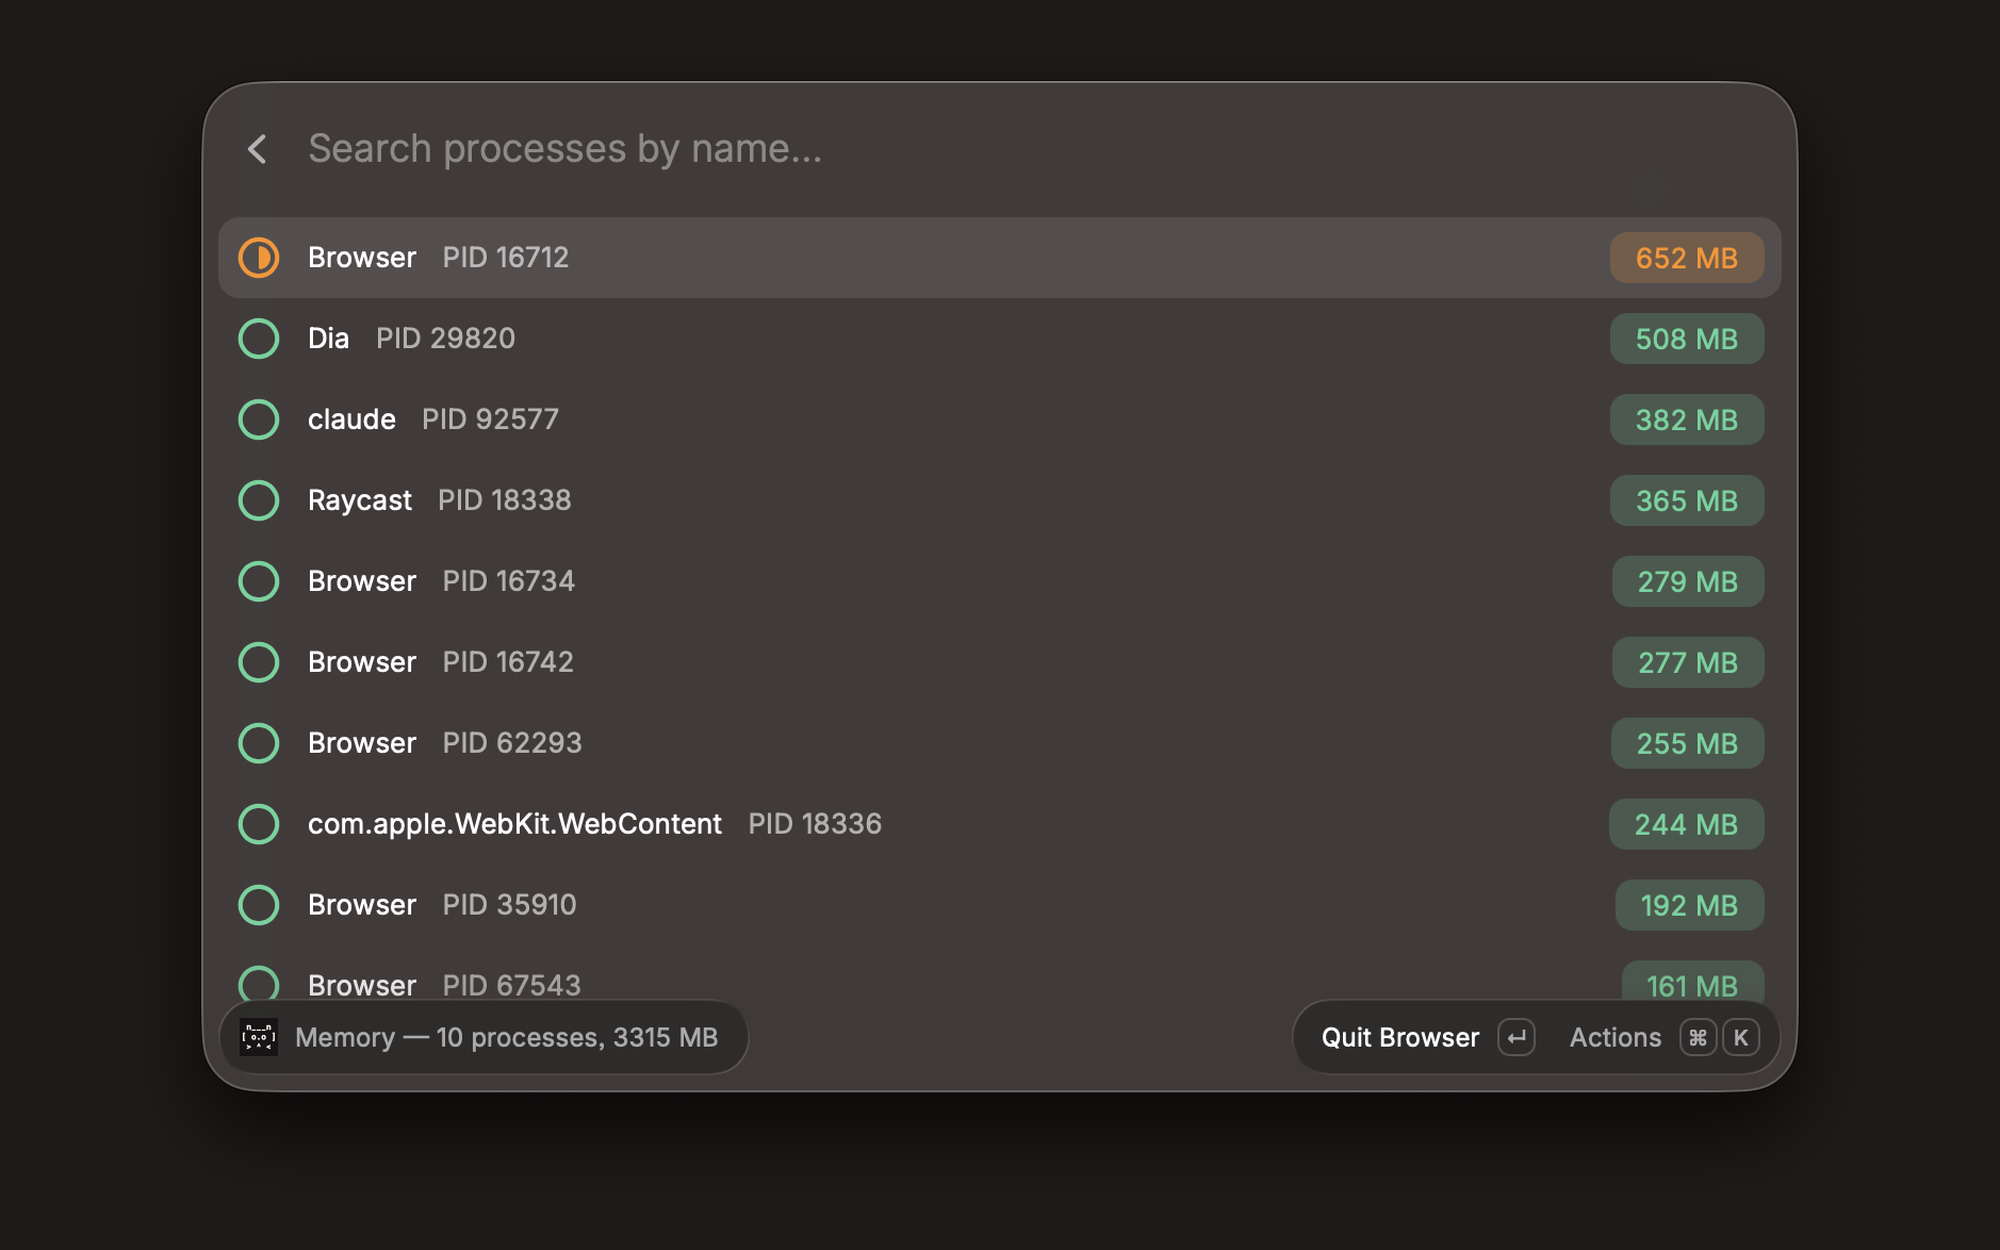
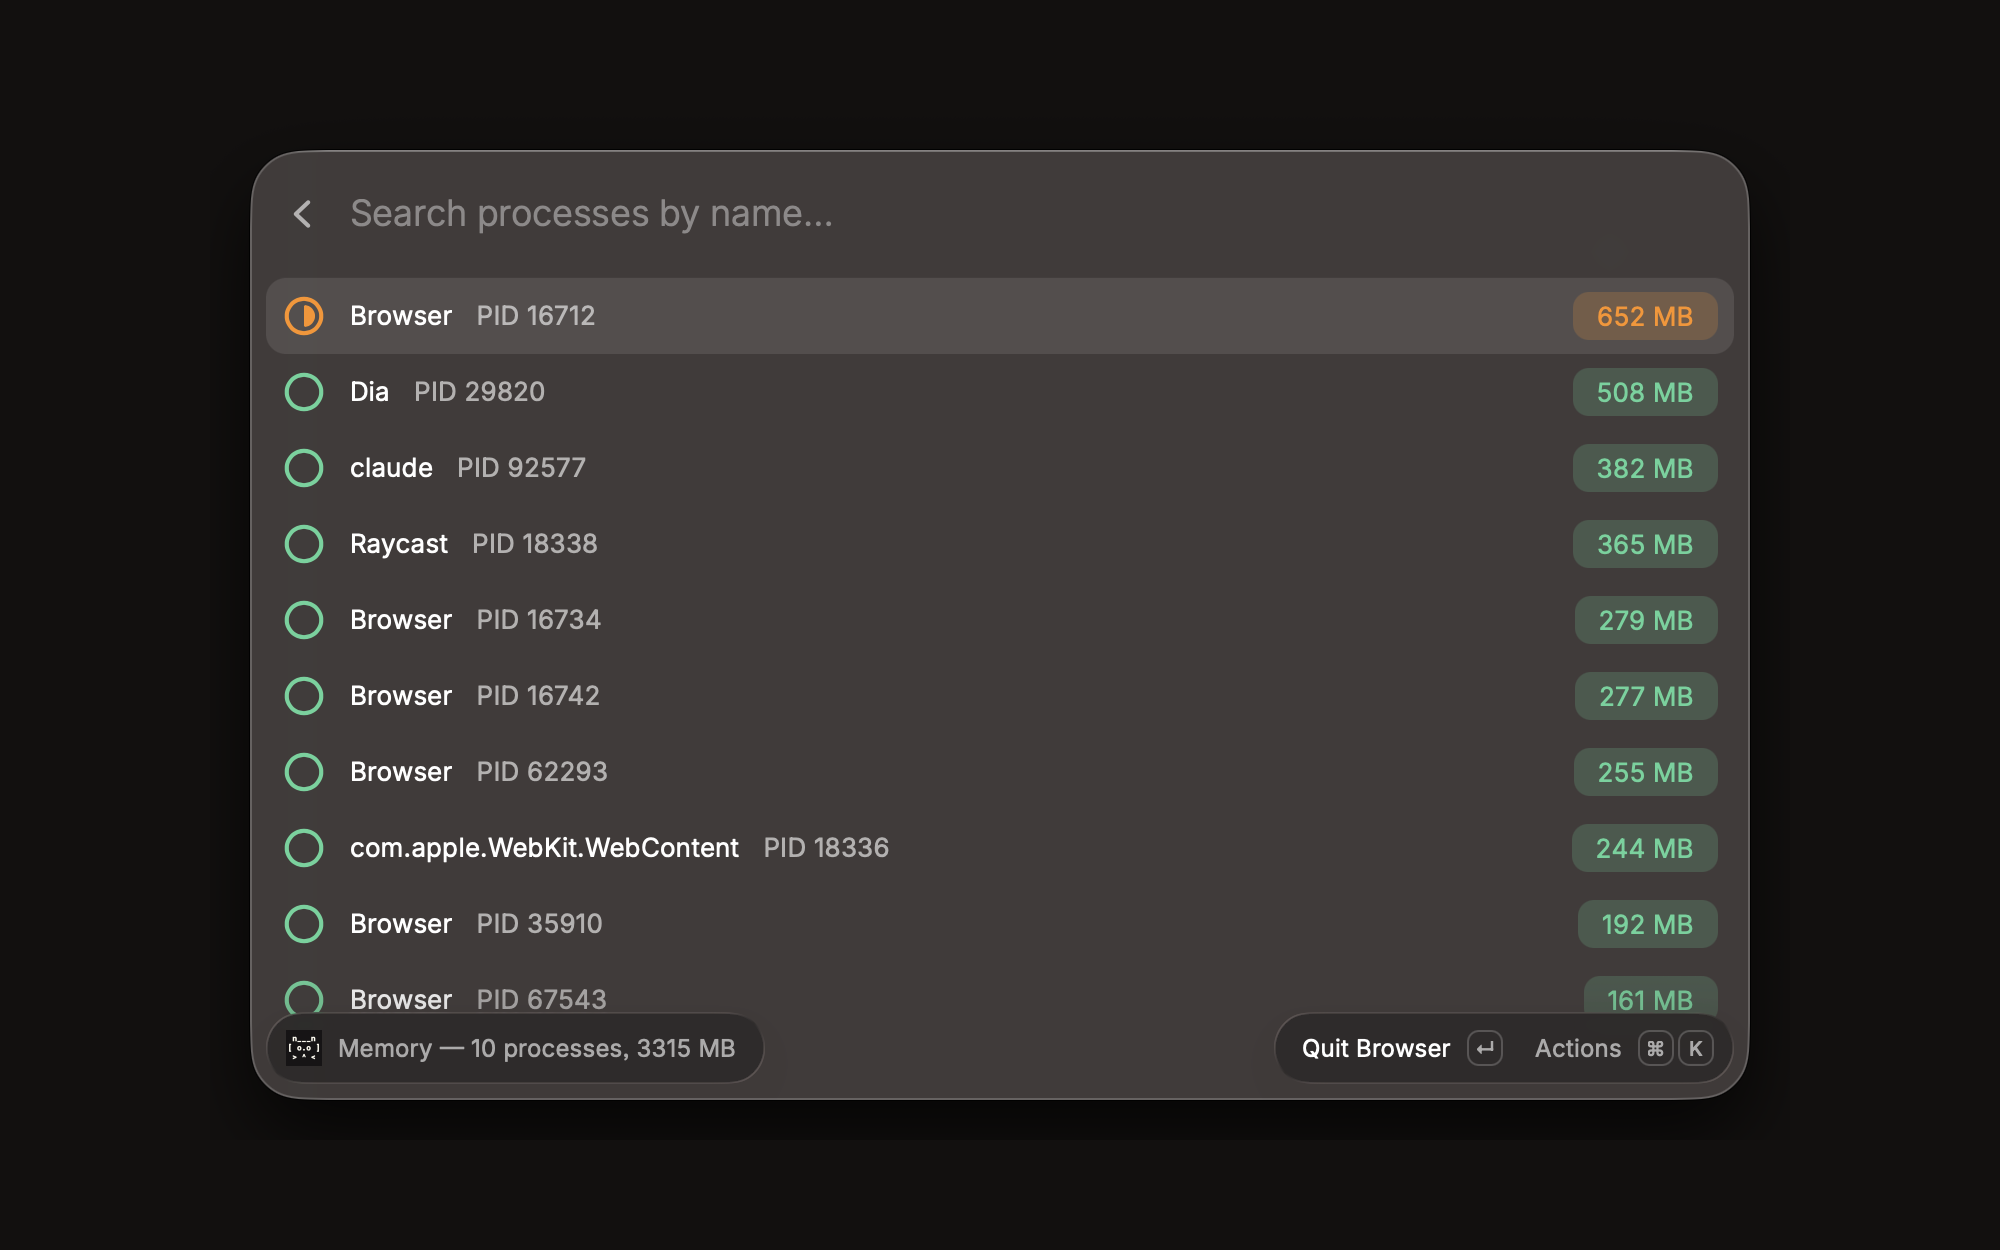
fix: the store review, answered
raycast/extensions#30701 came back with two failing checks and four review
findings. All six are addressed here.

Prettier: the monorepo has no .editorconfig, so CI reformatted every file to
two spaces and failed. The tab style now travels with the extension in
.prettierrc, and `prettier --no-editorconfig --check` passes.

Screenshots: five of six failed the padding check. The window sat at 6.5%
from the top, outside the 8–17% band the validator scans for a frame, so it
fell back to guessing edges from text. Recomposed from the original window
captures at 75% width, centred: 12.0% top and bottom, 12.5% left and right,
and Raycast's own check_raycast_images.py passes all six.

Login items: a name with an apostrophe ended the shell quote early. The
AppleScript is now built with appleScriptQuote and the whole script passed
through shellQuote, with a test for the apostrophe.

Upgrade: it started `rcc upgrade` the moment the screen opened. It now opens
in --dry-run like `apps`, through one shared DryRunFirst screen, and the real
run is a separate confirmed action. A dry run is its own row state.

Preferences: both getPreferenceValues calls use the generated Preferences
type, and tsconfig includes raycast-env.d.ts so tsc sees it.

Trash: kept as Finder. Raycast's trash() moves a path into the Trash and has
no way to empty it; the docstring now says so for the next reviewer.

Claude-Session: https://claude.ai/code/session_01PmiCH2RCfj8dKUhBo1LyWG

Changed region(s): [[0.093, 0.0624, 0.899, 0.9048]]

diff --git a/raycast-extension/src/apps.tsx b/raycast-extension/src/apps.tsx
@@ -1,56 +1,26 @@
-import { Action, Alert, Color, Icon, confirmAlert } from "@raycast/api";
-import { useState } from "react";
-import { ProgressList } from "./progress-list";
+import { Icon } from "@raycast/api";
+import { DryRunFirst } from "./dry-run-first";
 
 /**
  * `rcc apps` — the GUI applications, updated through four channels: Homebrew
  * casks, the App Store via `mas`, a catalog of apps that update themselves,
- * and Sparkle feeds.
- *
- * It opens in `--dry-run`, and that is the design decision worth stating.
- * Unlike every other screen here, this command *changes the machine*: it
- * downloads and installs new versions of applications the reader is very
- * possibly using at that moment. A screen that starts by doing that, because
- * someone pressed Enter on a row in a launcher, has taken a decision away from
- * them.
- *
- * So the first run answers "what would change", which is the question you have
- * before deciding — and updating for real is a separate, confirmed action.
+ * and Sparkle feeds. Opens in `--dry-run`; DryRunFirst says why.
  */
 export default function Command() {
-	const [live, setLive] = useState(false);
-
-	const updateForReal = async () => {
-		const confirmed = await confirmAlert({
-			title: "Update every app that has a new version?",
-			message:
-				"Raccoon will download and install updates through Homebrew, the " +
-				"App Store and Sparkle. Applications that are open may be replaced " +
-				"or asked to restart.",
-			primaryAction: {
-				title: "Update Apps",
-				style: Alert.ActionStyle.Destructive,
-			},
-		});
-		if (!confirmed) return;
-		setLive(true);
-	};
-
 	return (
-		<ProgressList
-			args={live ? ["apps"] : ["apps", "--dry-run"]}
-			title={live ? "Updating Apps" : "Apps — what would change"}
+		<DryRunFirst
+			command="apps"
+			subject="Apps"
 			unit="update channels"
 			idleIcon={Icon.AppWindowGrid3x3}
-			extraActions={
-				live ? null : (
-					<Action
-						title="Update Apps for Real"
-						icon={{ source: Icon.Download, tintColor: Color.Red }}
-						onAction={updateForReal}
-					/>
-				)
-			}
+			confirm={{
+				title: "Update every app that has a new version?",
+				message:
+					"Raccoon will download and install updates through Homebrew, the " +
+					"App Store and Sparkle. Applications that are open may be replaced " +
+					"or asked to restart.",
+				action: "Update Apps",
+			}}
 		/>
 	);
 }

diff --git a/raycast-extension/src/dry-run-first.tsx b/raycast-extension/src/dry-run-first.tsx
@@ -1,0 +1,69 @@
+import { Action, Alert, Color, Icon, confirmAlert } from "@raycast/api";
+import { useState } from "react";
+import { ProgressList } from "./progress-list";
+
+/**
+ * The screen for an rcc command that changes the machine.
+ *
+ * `apps` and `upgrade` are the two: one replaces applications the reader may
+ * be using at that moment, the other rewrites what every package manager has
+ * installed. A screen that starts by doing that, because someone pressed Enter
+ * on a row in a launcher, has taken a decision away from them.
+ *
+ * So the first run is `--dry-run` and answers "what would change", which is
+ * the question you have before deciding — and doing it for real is a separate,
+ * confirmed action. It is the one rule every screen here keeps: opening a
+ * screen does not act.
+ */
+export function DryRunFirst({
+	command,
+	subject,
+	unit,
+	idleIcon,
+	confirm,
+}: {
+	/** The rcc subcommand, e.g. "apps". */
+	command: string;
+	/** What the screen is about, for its titles: "Apps", "Packages". */
+	subject: string;
+	/** What the rows are, for the search placeholder. */
+	unit: string;
+	idleIcon: Icon;
+	/** The confirmation shown before the real run. */
+	confirm: { title: string; message: string; action: string };
+}) {
+	const [live, setLive] = useState(false);
+
+	const runForReal = async () => {
+		const confirmed = await confirmAlert({
+			title: confirm.title,
+			message: confirm.message,
+			primaryAction: {
+				title: confirm.action,
+				style: Alert.ActionStyle.Destructive,
+			},
+		});
+		if (!confirmed) return;
+		setLive(true);
+	};
+
+	return (
+		<ProgressList
+			args={live ? [command] : [command, "--dry-run"]}
+			title={
+				live ? `Updating ${subject}` : `${subject} — what would change`
+			}
+			unit={unit}
+			idleIcon={idleIcon}
+			extraActions={
+				live ? null : (
+					<Action
+						title={`${confirm.action} for Real`}
+						icon={{ source: Icon.Download, tintColor: Color.Red }}
+						onAction={runForReal}
+					/>
+				)
+			}
+		/>
+	);
+}

diff --git a/raycast-extension/src/fixes.ts b/raycast-extension/src/fixes.ts
@@ -1,4 +1,4 @@
-import { shellQuote } from "./terminal.ts";
+import { appleScriptQuote, shellQuote } from "./terminal.ts";
 
 /**
  * The shell command behind Enter and Cmd+Enter, one builder per command that
@@ -23,7 +23,14 @@ export function killPids(pids: number[]): string {
 	return `kill ${valid.join(" ")}`;
 }
 
-/** Empty the Trash through Finder, so it behaves like emptying it by hand. */
+/**
+ * Empty the Trash through Finder, so it behaves like emptying it by hand.
+ *
+ * Not Raycast's `trash()`: that API moves a path *into* the Trash and has no
+ * counterpart for emptying it. Finder is the one thing on the system that
+ * empties every volume's Trash at once and honours the reader's own settings
+ * for it.
+ */
 export function emptyTrash(): string {
 	return `osascript -e 'tell application "Finder" to empty trash'`;
 }
@@ -63,10 +70,13 @@ export function forgetNetworks(iface: string, ssids: string[]): string {
 /** Remove an item from Login Items, the same list System Settings shows. */
 export function removeLoginItems(names: string[]): string {
 	if (names.length === 0) throw new Error("No login item to remove.");
+	// Quoted twice on purpose: once as an AppleScript string, then the whole
+	// script as one shell argument. A name with an apostrophe in it used to end
+	// the shell quote early and run whatever followed it.
 	return names
 		.map(
 			(n) =>
-				`osascript -e 'tell application "System Events" to delete login item ${JSON.stringify(n)}'`,
+				`osascript -e ${q(`tell application "System Events" to delete login item ${appleScriptQuote(n)}`)}`,
 		)
 		.join("; ");
 }

diff --git a/raycast-extension/src/upgrade.tsx b/raycast-extension/src/upgrade.tsx
@@ -1,20 +1,27 @@
 import { Icon } from "@raycast/api";
-import { ProgressList } from "./progress-list";
+import { DryRunFirst } from "./dry-run-first";
 
 /**
- * `rcc upgrade` — brew, pip, npm, pnpm, bun, uv, go, cargo, one after another.
- *
- * Nothing here but the shape: the screen is ProgressList, because `apps` is the
- * same command in a different domain and one of them having a better view than
- * the other would be an accident, not a decision.
+ * `rcc upgrade` — brew, pip, npm, pnpm, bun, uv, go, nvm, rustup, gem, docker,
+ * claude, one after another. Opens in `--dry-run`, like `apps`: it is the
+ * other command here that rewrites what is installed, and it used to start the
+ * moment the screen opened.
  */
 export default function Command() {
 	return (
-		<ProgressList
-			args={["upgrade"]}
-			title="Upgrade"
+		<DryRunFirst
+			command="upgrade"
+			subject="Packages"
 			unit="package managers"
 			idleIcon={Icon.Download}
+			confirm={{
+				title: "Upgrade the packages of every manager on this Mac?",
+				message:
+					"Raccoon will run the brew, pip, npm, pnpm, bun, uv, go, nvm, " +
+					"rustup, gem and Docker upgrades in turn. Tools you are using may " +
+					"change version under you, and some managers ask for Touch ID.",
+				action: "Upgrade Packages",
+			}}
 		/>
 	);
 }

diff --git a/raycast-extension/src/fixes.test.ts b/raycast-extension/src/fixes.test.ts
@@ -48,6 +48,16 @@ test("a login item name is passed as a quoted AppleScript string", () => {
 	assert.match(removeLoginItems(['He said "hi"']), /\\"hi\\"/);
 });
 
+test("a login item name with an apostrophe cannot break out of the shell quote", () => {
+	const cmd = removeLoginItems(["Alex's Helper"]);
+	// The whole AppleScript is one single-quoted shell argument, and the
+	// apostrophe inside it is the '\'' dance, never a bare quote.
+	assert.equal(
+		cmd,
+		`osascript -e 'tell application "System Events" to delete login item "Alex'\\''s Helper"'`,
+	);
+});
+
 test("certificate deletion is scoped to the login keychain", () => {
 	const cmd = deleteCertificates(["Adobe Content Certificate 10-6"]);
 	assert.ok(cmd.includes("login.keychain-db"));

diff --git a/raycast-extension/src/upgrade-progress.ts b/raycast-extension/src/upgrade-progress.ts
@@ -19,7 +19,7 @@ const PROGRESS = /^__RCC_PROGRESS__:(\d+):(\d+):(.*)$/;
 const STEP = /^([a-z][a-z0-9+-]*):\s*(.*)$/i;
 
 export type ManagerState =
-	"checking" | "updating" | "done" | "absent" | "unknown";
+	"checking" | "updating" | "previewed" | "done" | "absent" | "unknown";
 
 export type Manager = {
 	name: string;
@@ -38,6 +38,8 @@ function stateOf(detail: string): ManagerState {
 	}
 	if (text.includes("up to date") || text.includes("up-to-date"))
 		return "done";
+	// `--dry-run` reports what a manager would do and stops there.
+	if (text.includes("dry run")) return "previewed";
 	if (text.includes("updating") || text.includes("upgrading")) {
 		return "updating";
 	}

diff --git a/raycast-extension/src/upgrade-progress.test.ts b/raycast-extension/src/upgrade-progress.test.ts
@@ -57,3 +57,14 @@ test("the plain output between markers belongs to the manager running then", () 
 test("output with no markers yields no rows rather than one empty one", () => {
 	assert.deepEqual(managersFrom("just some text\nand more"), []);
 });
+
+test("a dry run leaves a manager previewed, neither working nor done", () => {
+	const run = [
+		"__RCC_PROGRESS__:0:30:brew: checking...",
+		"__RCC_PROGRESS__:1:30:brew: dry run",
+		"==> Would upgrade 3 outdated packages",
+	].join("\n");
+	const [brew] = managersFrom(run);
+	assert.equal(brew.state, "previewed");
+	assert.match(brew.log, /Would upgrade/);
+});

diff --git a/raycast-extension/src/progress-list.tsx b/raycast-extension/src/progress-list.tsx
@@ -44,6 +44,7 @@ const LOOK: Record<ManagerState, { icon: Icon; tint: Color; label: string }> = {
 		tint: Color.Blue,
 		label: "Checking",
 	},
+	previewed: { icon: Icon.Eye, tint: Color.SecondaryText, label: "Dry run" },
 	done: { icon: Icon.CheckCircle, tint: Color.Green, label: "Up to date" },
 	// Neither a failure nor a warning: something you have not installed is not
 	// a problem to solve, so it must not be dressed as one.

diff --git a/raycast-extension/src/admin-session.tsx b/raycast-extension/src/admin-session.tsx
@@ -20,7 +20,7 @@ import {
 } from "./sudoers";
 
 function selectedSession(): SudoSession {
-	const { sudoSession } = getPreferenceValues<{ sudoSession?: string }>();
+	const { sudoSession } = getPreferenceValues<Preferences.AdminSession>();
 	return sudoSession === "-1" ? "-1" : "60";
 }
 
